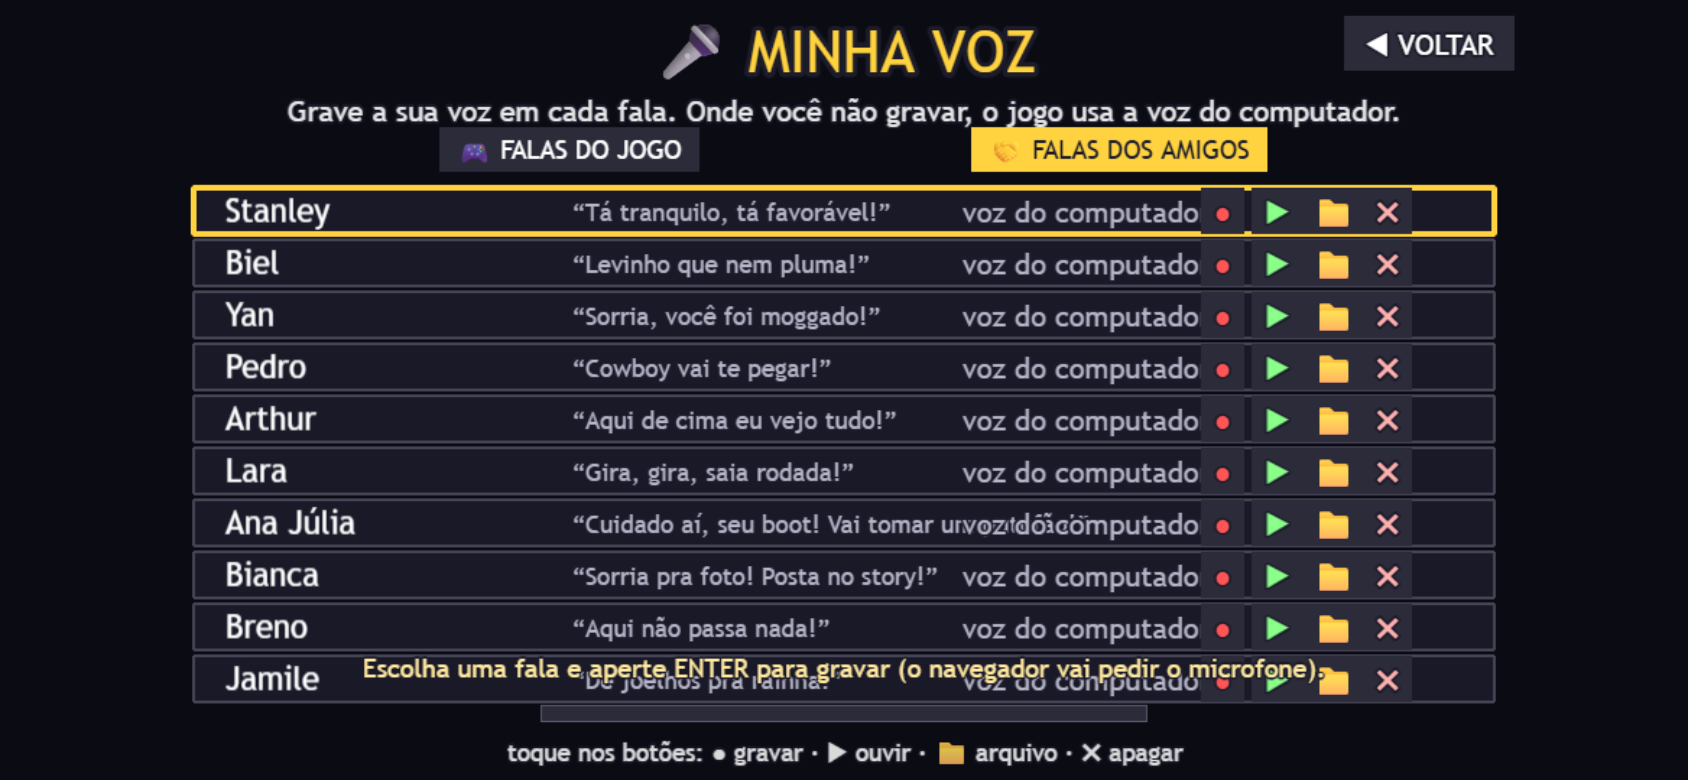
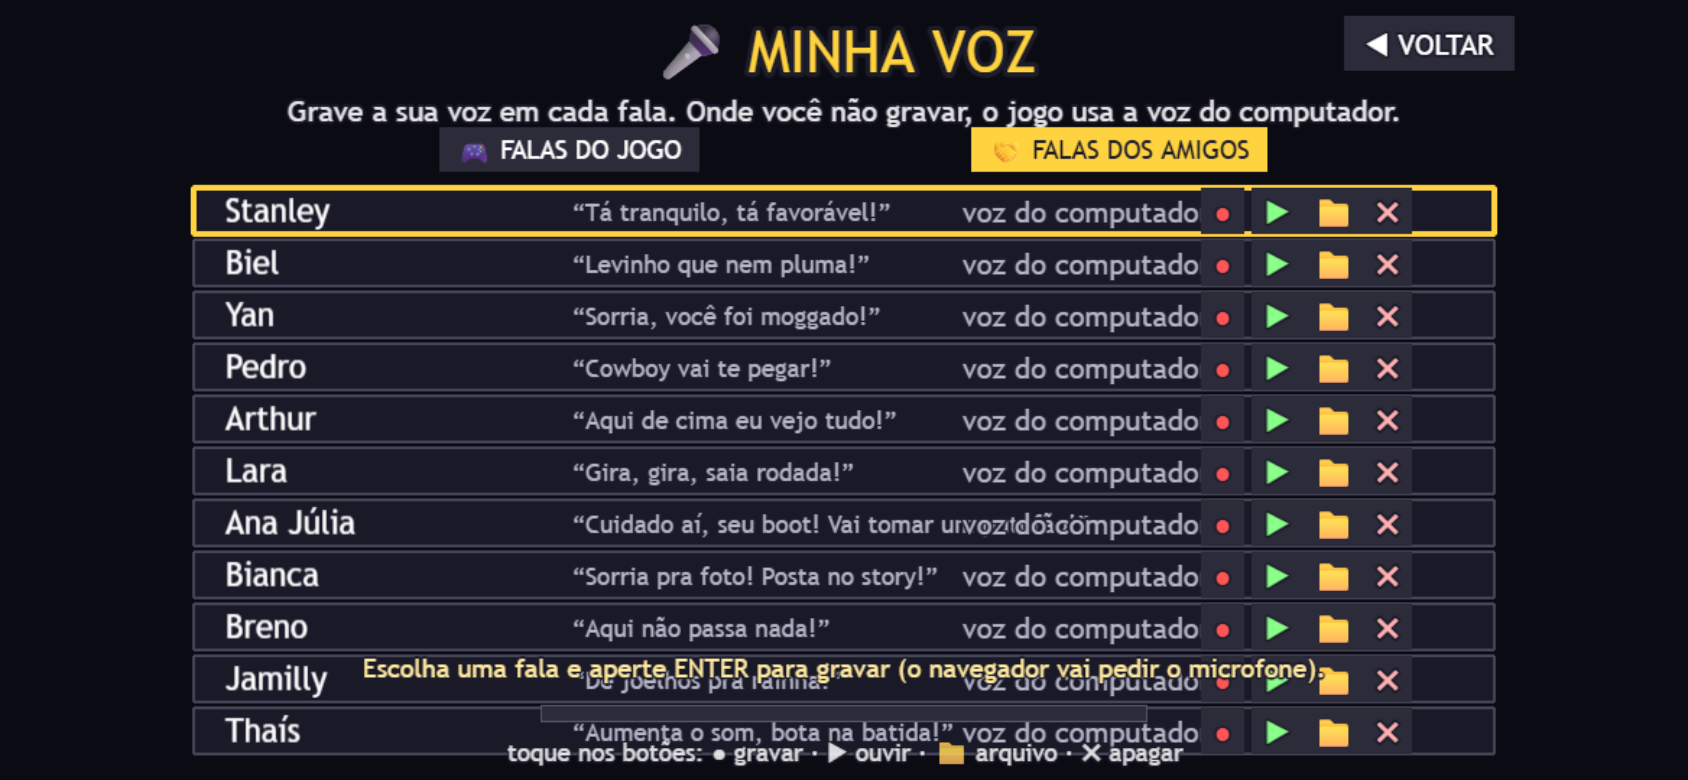
Amiga Thais: cabelao com flor, vestido de praia; poder Modo Batida (inimigos lentos, ela acelera, musica); cameos cobrem 11 amigos

Changed region(s): [[0.3389, 0.8923, 0.8934, 0.9846], [0.1232, 0.8615, 0.3081, 0.9846]]

diff --git a/src/scenes/Game.js b/src/scenes/Game.js
@@ -58,7 +58,7 @@ class GameScene extends Phaser.Scene {
     this.heroK = heroScale();                          // boneco alto (Arthur): o desenho aumenta, a colisão não
     this.ability = OUTFITS[currentOutfit()].ability || null;   // poder ATIVO do amigo (ex.: a Saia Rodada da Lara), usado com X ou o botão 🌀
     this.ability2 = OUTFITS[currentOutfit()].ability2 || null;   // segundo poder (Ana Júlia: tocha), tecla C / botão 🔥
-    this.abilityCd = 0; this.abilityQueued = false; this.twirlUntil = 0; this.ability2Cd = 0; this.ability2Queued = false; this.wallUntil = 0; this.queenUntil = 0; this.kneelers = new Set();
+    this.abilityCd = 0; this.abilityQueued = false; this.twirlUntil = 0; this.ability2Cd = 0; this.ability2Queued = false; this.wallUntil = 0; this.queenUntil = 0; this.kneelers = new Set(); this.batidaUntil = 0; this.batidaKills = 0; this.batidaBeat = 0;
     // Consumíveis comprados valem para esta fase (no reinício da fase eles voltam, sem gastar de novo)
     this.buffs = data.buffs || Shop.takeBuffs();
     if (!data.buffs && this.buffs.includes('coxinha')) this.stats.lives++;
@@ -831,6 +831,7 @@ class GameScene extends Phaser.Scene {
         }
       });
     }
+    if (this.batidaUntil) { if (this.batidaUntil > time) this.batidaTick(time); else this.batidaEnd(); }
     if (this.queenUntil) {                                 // Modo Rainha: coroa na cabeça e brilho dourado
       const alive = this.queenUntil > time;
       if (alive) {
@@ -926,7 +927,7 @@ class GameScene extends Phaser.Scene {
     const es = level.objects.filter((o) => o.ch === 'E');
     if (!others.length || !es.length) return plan;
     plan.set(es[Math.min(1, es.length - 1)], others[n % others.length]);
-    if (es.length >= 3) plan.set(es[es.length >= 4 ? 3 : 2], others[(n + 8) % others.length]);      // 2º amigo da fase, pra todo mundo aparecer
+    if (es.length >= 2) plan.set(es.length >= 4 ? es[3] : es.length === 3 ? es[2] : es[0], others[(n + 8) % others.length]);   // 2º amigo da fase, pra todo mundo aparecer
     return plan;
   }
 
@@ -1190,6 +1191,49 @@ class GameScene extends Phaser.Scene {
   // ---- Poder ativo: Saia Rodada da Lara. Gira e lança uma rajada (a saia) que acerta o inimigo de longe ----
   abIcon() { return this.ability.icon || (this.ability.id === 'tiro' ? '🔫' : '🌀'); }
 
+  // Thaís: Modo Batida. A playlist começa: por 6 s os inimigos ficam em câmera lenta (dançando no ritmo) e a Thaís corre 25% mais rápido
+  fireBatida() {
+    const pb = this.player.body, now = this.time.now;
+    if (!this.batidaUntil) this.batidaPerk = this.perk;
+    this.batidaUntil = now + 6000; this.batidaKills = 0; this.batidaBeat = now;
+    this.perk = { ...this.batidaPerk, speed: (this.batidaPerk.speed || 1) * 1.25 };
+    this.cameras.main.flash(200, 120, 190, 255);
+    this.floatText(pb.center.x, pb.top - 30, '🎧 MODO BATIDA!', '#9fd8ff', 22);
+    this.fxParty.explode(14, pb.center.x, pb.center.y); this.fxAura.explode(10, pb.center.x, pb.center.y);
+    Sfx.tone(262, 0.12, { type: 'square', vol: 0.06 }); Sfx.tone(330, 0.12, { type: 'square', vol: 0.06, delay: 0.1 }); Sfx.tone(392, 0.2, { type: 'square', vol: 0.07, delay: 0.2 });
+  }
+
+  // o mundo na batida: inimigos devagar e balançando, notas musicais saindo da Thaís e um "bum-tss" a cada meio segundo
+  batidaTick(time) {
+    const pb = this.player.body;
+    this.enemies.children.iterate((e) => {
+      if (!e || e.dead || e.moto || e.eva || e.batida) return;
+      if (Math.abs(e.x - pb.center.x) > 700) return;
+      e.batida = true; e.baseSpeed = e.speed; e.speed = e.speed * 0.4; e.setTint(0x9fd8ff);
+      if (e.anims) e.anims.timeScale = 0.4;
+    });
+    if (time - this.batidaBeat >= 500) {
+      this.batidaBeat = time;
+      const k = Math.round(time / 500) % 2;
+      Sfx.tone(k ? 180 : 110, 0.09, { type: 'sine', to: 55, vol: 0.07 });
+      if (k) Sfx.tone(2400, 0.04, { type: 'square', vol: 0.025, delay: 0.02 });
+      this.floatText(pb.center.x + Phaser.Math.Between(-18, 18), pb.top - 8, Phaser.Utils.Array.GetRandom(['🎵', '🎶', '♪']), '#9fd8ff', 20);
+      this.enemies.children.iterate((e) => { if (e && e.batida && !e.dead) e.setAngle(k ? 7 : -7); });
+      this.squash = 0.25;
+    }
+  }
+
+  batidaEnd() {
+    this.batidaUntil = 0;
+    if (this.batidaPerk) { this.perk = this.batidaPerk; this.batidaPerk = null; }
+    this.enemies.children.iterate((e) => {
+      if (!e || !e.batida) return;
+      e.batida = false; if (e.baseSpeed !== undefined) e.speed = e.baseSpeed;
+      if (e.anims) e.anims.timeScale = 1;
+      if (!e.stunUntil) { e.clearTint(); e.setAngle(0); }
+    });
+  }
+
   // Jamilly: Modo Rainha. Ela se transforma (coroa, brilho dourado) e por 5 s todo inimigo por perto se ajoelha: fica parado, roxinho e inofensivo
   fireRainha() {
     const cam = this.cameras.main, pb = this.player.body;
@@ -1284,6 +1328,7 @@ class GameScene extends Phaser.Scene {
     if (this.ability.id === 'flash') return this.fireFlash();
     if (this.ability.id === 'paredao') return this.fireParedao();
     if (this.ability.id === 'rainha') return this.fireRainha();
+    if (this.ability.id === 'batida') return this.fireBatida();
     const dir = this.facing >= 0 ? 1 : -1;
     const pb = this.player.body;
     const s = this.skirtShots.create(pb.center.x + dir * 18, pb.center.y - 2, 'saia_rajada');
@@ -1686,6 +1731,7 @@ class GameScene extends Phaser.Scene {
 
   defeatEnemy(enemy, launched) {
     enemy.dead = true;
+    if (this.batidaUntil > this.time.now && ++this.batidaKills >= 3) Achievements.unlock('batida');
     if (enemy.friendKey) this.friendStomped(enemy);
     if (enemy.tag && !enemy.friendKey) { enemy.tag.destroy(); enemy.tag = null; }
     if (enemy.eva) this.evaDefeated(enemy);

diff --git a/src/config.js b/src/config.js
@@ -287,6 +287,13 @@ const FRIENDS = {
       shirt: 0xe0267f, shirtDark: 0xb01a62, shorts: 0x263f8c, shortsDark: 0x1a2c66 },
     hairStyle: 'cachos', necklace: 0xffd23f, earring: 0xffd23f, bag: 0xf2a33a, pants: true, shoes: 'tenis',
   },
+  thais: {
+    name: 'Thaís', who: 'Thaís', desc: 'Cabelão escuro com uma flor, maiô azul e vestidinho estampado de praia. Vive de playlist.',
+    colors: { hair: 0x2a1a14, hairDark: 0x150c08, hairLight: 0x4a3226, skin: 0xe9bb94, skinDark: 0xc99874,
+      shirt: 0x2f7fd8, shirtDark: 0x1f5fae, shorts: 0xe8409a, shortsDark: 0xb82d78 },
+    hairStyle: 'longo', hairFlower: 0xf2825a, shoes: 'chinelo',
+    skirt: { color: 0xe8409a, ribbon1: 0x2f7fd8, ribbon2: 0xffd23f, hem: 0x2b2b30 },
+  },
 };
 // Frase (dublável na tela Minha voz) e poder de cada amigo. perk: speed (corre mais) · jump (pula mais) · coin (moeda vale mais) · magnet (puxa moedas, em pixels)
 const FRIEND_EXTRA = {
@@ -304,6 +311,8 @@ const FRIEND_EXTRA = {
     ability: { id: 'paredao', icon: '🧤', name: 'Paredão', desc: 'X: defesa! Protege 1,5 s e devolve os tiros', cooldown: 6 } },
   jamile:  { phrase: 'De joelhos pra rainha!', pitch: 1.2,
     ability: { id: 'rainha', icon: '👑', name: 'Modo Rainha', desc: 'X: vira rainha 5 s! Inimigos se ajoelham', cooldown: 10 } },
+  thais:   { phrase: 'Aumenta o som, bota na batida!', pitch: 1.3,
+    ability: { id: 'batida', icon: '🎧', name: 'Modo Batida', desc: 'X: playlist! Inimigos lentos, você acelera', cooldown: 12 } },
   arthur:  { phrase: 'Aqui de cima eu vejo tudo!', pitch: 0.85, perk: { name: 'Piadista', desc: '+1 s de proteção ao renascer (todo mundo ri)', respawnInvuln: 1 } },
 };
 Object.keys(FRIENDS).forEach((k) => { OUTFITS[k] = { ...FRIENDS[k], ...(FRIEND_EXTRA[k] || {}), friend: true }; });
@@ -339,6 +348,7 @@ const FRIEND_CHAT = {
   pedro:    ['Cowboy vai te pegar!', 'Vou comprar um chapéu novo.', 'Eita, que calor!'],
   breno:    ['Aqui não passa nada!', 'Pênalti? Pode bater!', 'Hoje eu fecho o gol.'],
   jamile:   ['De joelhos pra rainha!', 'Respeita as minas!', 'Essa sacola é minha, viu?'],
+  thais:    ['Aumenta o som, bota na batida!', 'Essa música é minha cara.', 'Vamos pra praia depois?'],
   arthur:   ['Aqui de cima eu vejo tudo!', 'Quer ouvir uma piada?', 'Essa música tá boa demais.'],
   lara:     ['Gira, gira, saia rodada!', 'Meu irmão Brunucho chegou!', 'Vim comprar fita pra minha saia.'],
   anajulia: ['Cuidado aí, seu boot!', 'Procurando tesouro nessas lojas...', 'Alguém viu minha tocha?'],

diff --git a/src/achievements.js b/src/achievements.js
@@ -71,6 +71,7 @@ const ACHIEVEMENTS = [
   { id: 'flash',       icon: '📸', name: 'Digna de Story',        desc: 'Hipnotizar 3 inimigos de uma vez com o flash da Bianca' },
   { id: 'paredao',     icon: '🧤', name: 'Paredão do Breno',      desc: 'Devolver um tiro inimigo com a defesa do Breno e acertar alguém' },
   { id: 'rainha',      icon: '👑', name: 'De Joelhos!',           desc: 'Ajoelhar 3 inimigos de uma vez com o Modo Rainha da Jamilly' },
+  { id: 'batida',      icon: '🎧', name: 'Na Batida',             desc: 'Derrubar 3 inimigos durante o Modo Batida da Thaís' },
   { id: 'escola_entrou', icon: '🏫', name: 'Aluno Pontual',        desc: 'Entrar na Escola Zacarias' },
   { id: 'terceiro_d',  icon: '🚪', name: 'Terceiro D',            desc: 'Chegar na sala do 3º D, no fim do corredor' },
   { id: 'eva',         icon: '📝', name: 'Nota Dez',              desc: 'Derrotar a professora Eva na sala de aula' },

diff --git a/README.md b/README.md
@@ -76,7 +76,7 @@ música da intro, de vitória e de game over. As notas ficam em `SONGS` e dá pr
 
 ### Conquistas
 
-**72 conquistas**, como *Fugiu da Chinelada*, *Mogador Serial*, *Haja Coração!*, *Foi Pênalti?*, *Sigma do Combo*,
+**73 conquistas**, como *Fugiu da Chinelada*, *Mogador Serial*, *Haja Coração!*, *Foi Pênalti?*, *Sigma do Combo*,
 *Atropelamento 67*, *A Andreia Te Achou* e *Modo Andreia* (zerar no Difícil). Aparece um aviso na tela quando desbloqueia
 e dá pra ver todas no menu. A lista fica em `src/achievements.js`.
 
@@ -282,7 +282,7 @@ em `SHOPS` e `Shop`, no `src/shop.js`. Conquistas novas: *Turista em Cotia*, *Cl
 ### Amigos (personagens jogáveis)
 
 No guarda-roupa (**ROUPA** no menu) há duas abas: **ROUPAS** (os 10 looks do Brunucho) e **AMIGOS**, com personagens jogáveis feitos a partir
-de fotos de amigos, com o nome aparecendo em cima deles. O Brunucho continua sendo o protagonista da história. Amigos atuais: **Stanley**, **Biel** (Gabriel Silva, corpo magrinho) , **Yan**, **Pedro** (de cowboy), **Arthur** (alto, de fone no ouvido e pulseira vermelha) **Lara** (a "irmã" do Brunucho: cabelo preso num coque, flor no cabelo e saia rodada de carimbó) **Ana Júlia** (exploradora estilo Lara Croft, com coldre, tocha e pistola) **Bianca** (tranças longas, regata rosa e pose de story) **Breno** (o goleiro: camisa amarela listrada, luvas e meiões pretos) e **Jamilly** (cachos poderosos, blusa fúcsia, argolas e a sacola laranja).
+de fotos de amigos, com o nome aparecendo em cima deles. O Brunucho continua sendo o protagonista da história. Amigos atuais: **Stanley**, **Biel** (Gabriel Silva, corpo magrinho) , **Yan**, **Pedro** (de cowboy), **Arthur** (alto, de fone no ouvido e pulseira vermelha) **Lara** (a "irmã" do Brunucho: cabelo preso num coque, flor no cabelo e saia rodada de carimbó) **Ana Júlia** (exploradora estilo Lara Croft, com coldre, tocha e pistola) **Bianca** (tranças longas, regata rosa e pose de story) **Breno** (o goleiro: camisa amarela listrada, luvas e meiões pretos) **Jamilly** (cachos poderosos, blusa fúcsia, argolas e a sacola laranja) e **Thaís** (cabelão com flor, maiô azul e vestidinho estampado de praia).
 Pra adicionar um amigo, crie uma entrada em `FRIENDS`, no `src/config.js` (cores, `hairStyle`, `beard`, `glasses`, `cap`, `thickBrows`, `slim`, `pants`, `smile`, `hoodie`, `cowboy`, `plaid`, `earbuds`, `bracelet`, `chestPrint`, `tall` (boneco mais alto)...).
 As fotos **não** vão pro repositório, só o desenho pixelado.
 
@@ -304,6 +304,12 @@ Cada amigo tem um **poder** (aparece no guarda-roupa e no começo da fase) e uma
 | Breno | **Paredão** (poder ativo) | "Aqui não passa nada!" |
 
 | Jamilly | **Modo Rainha** (poder ativo) | "De joelhos pra rainha!" |
+
+| Thaís | **Modo Batida** (poder ativo) | "Aumenta o som, bota na batida!" |
+
+**Poder ativo da Thaís — Modo Batida:** aperte **X** (botão 🎧 no celular). A playlist começa: por **6 s** os inimigos ficam em **câmera lenta** (azulados e balançando no ritmo),
+a Thaís corre **25% mais rápido**, saem notas musicais 🎵 dela e rola um "bum-tss" a cada meio segundo. Chefões também são poupados do efeito. Recarga de 12 s.
+Conquista *Na Batida* (derrubar 3 inimigos durante o Modo Batida).
 
 **Poder ativo da Jamilly — Modo Rainha:** aperte **X** (botão 👑 no celular). Ela **se transforma**: a tela brilha dourada, uma **coroa** aparece na cabeça e, por **5 s**,
 todo inimigo num raio de uns 380 px **se ajoelha** (fica parado, roxinho, de cabeça baixa e inofensivo, dizendo "Sim, majestade!"). Chefões não se ajoelham. Recarga de 10 s.
